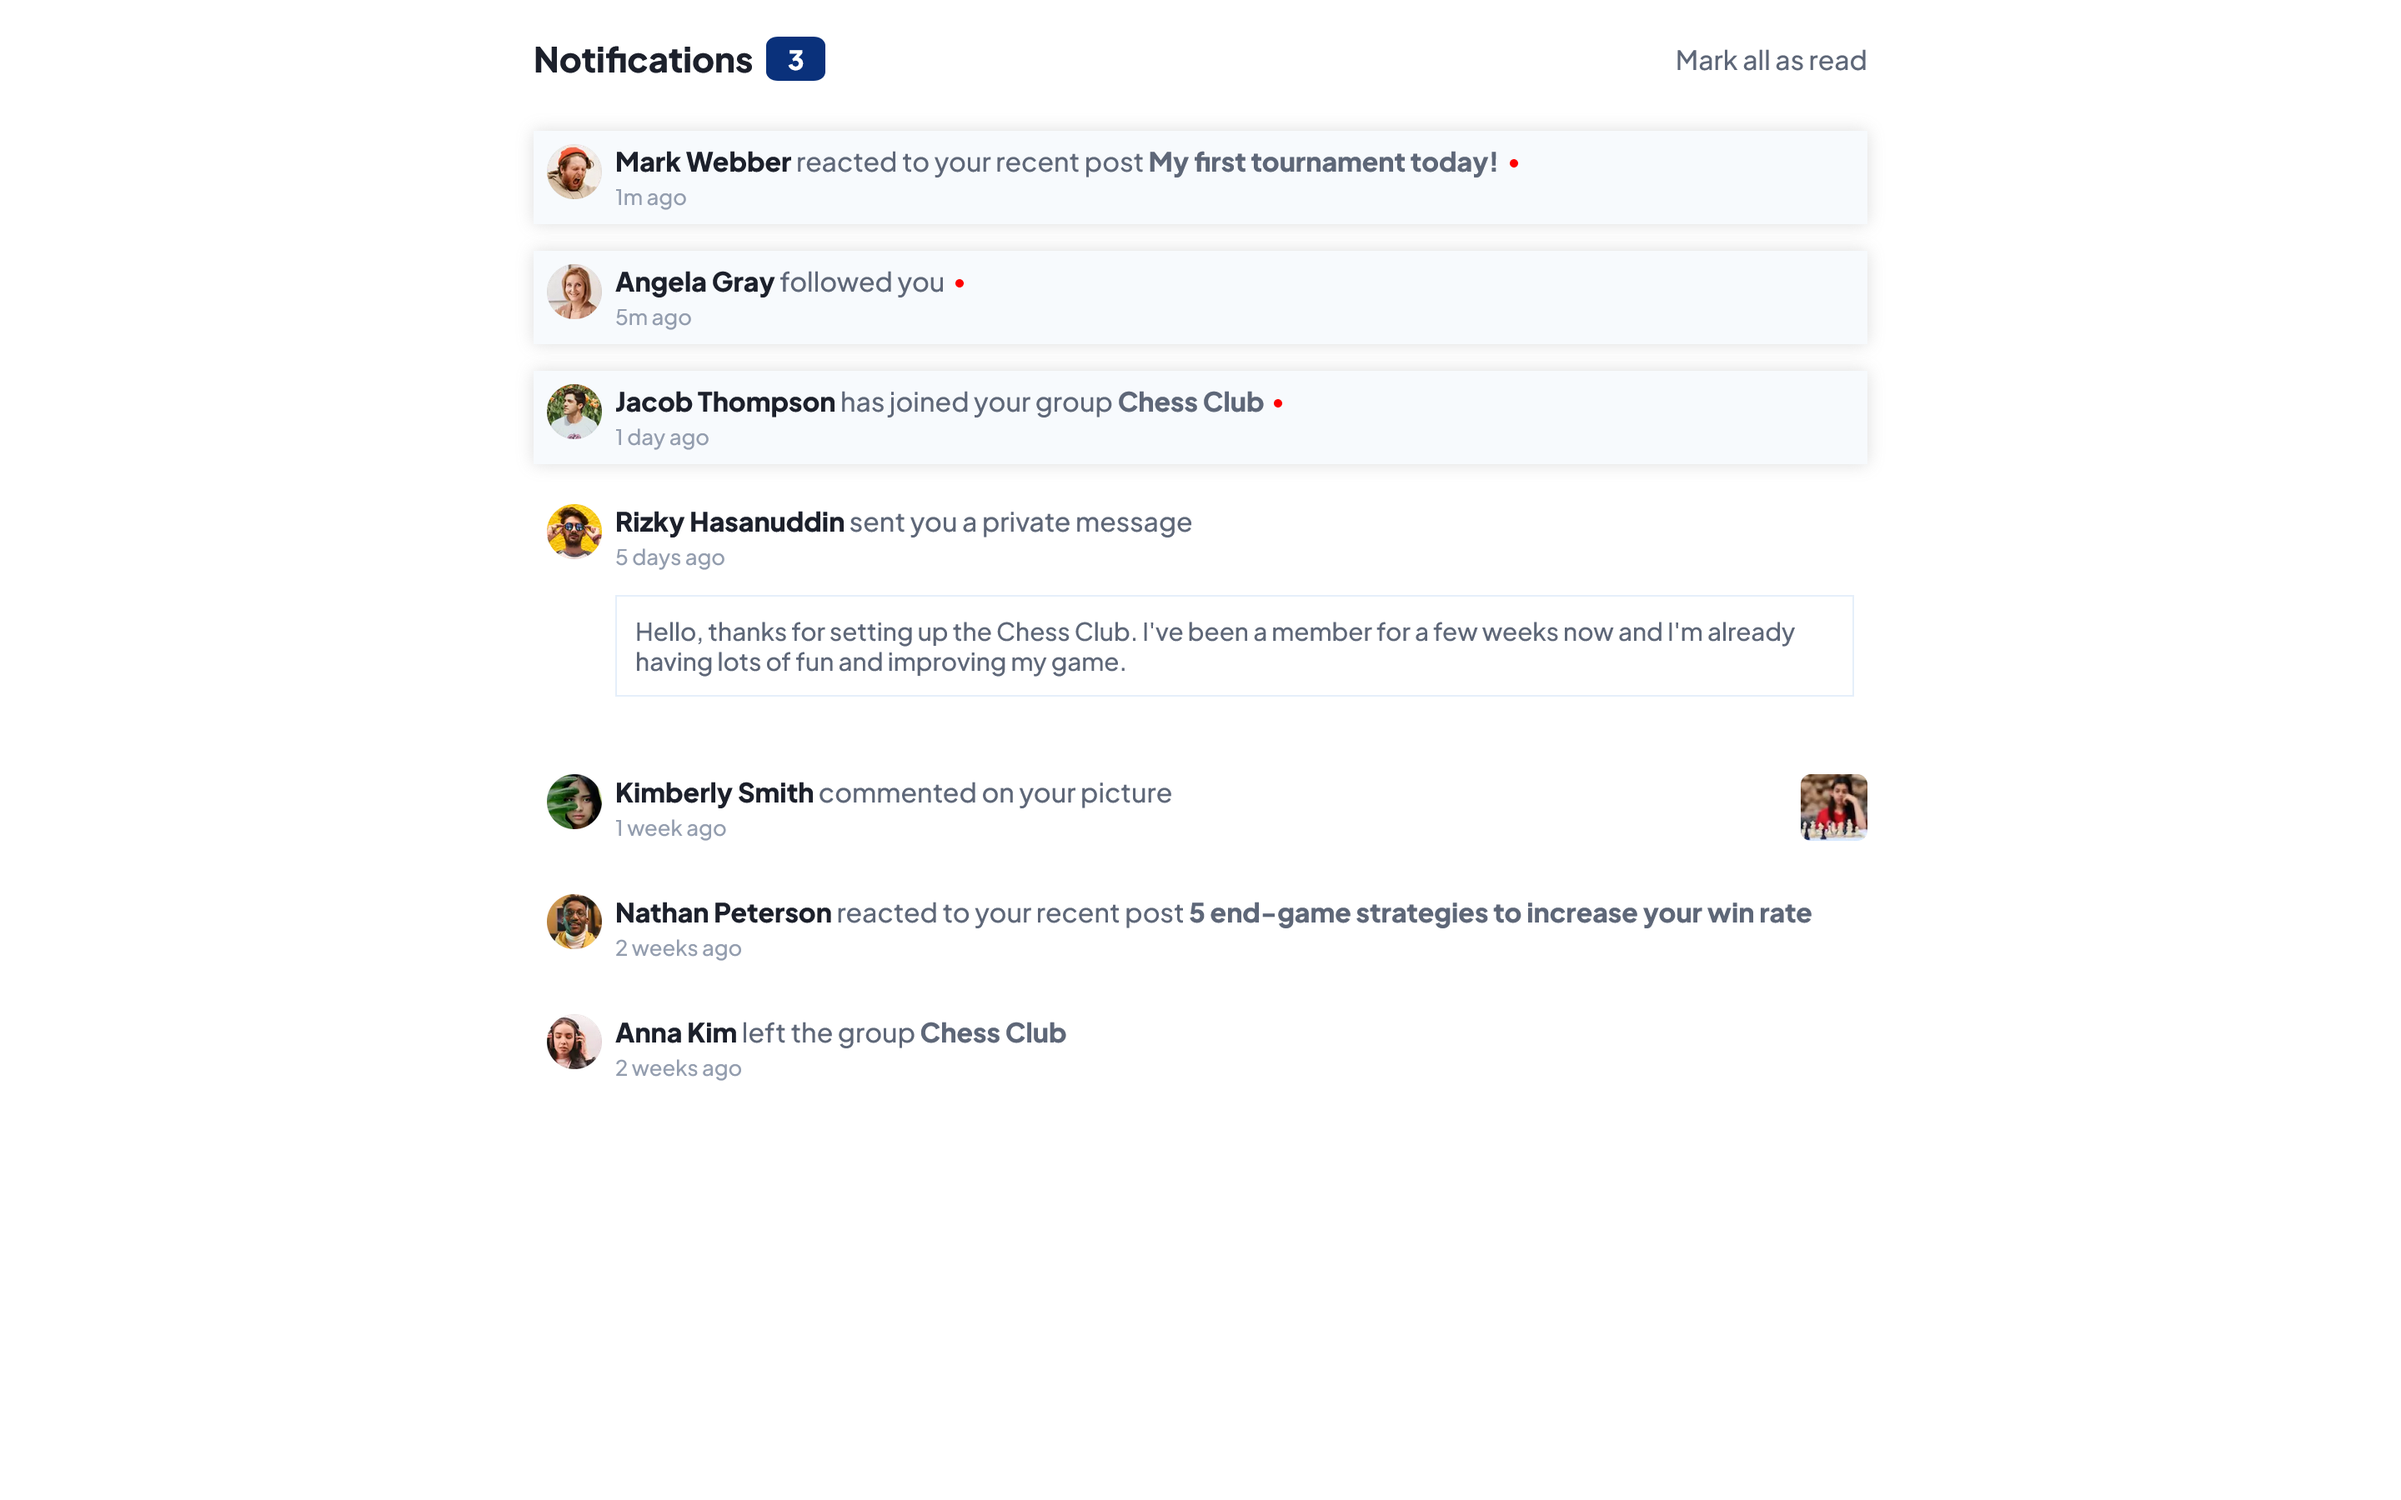
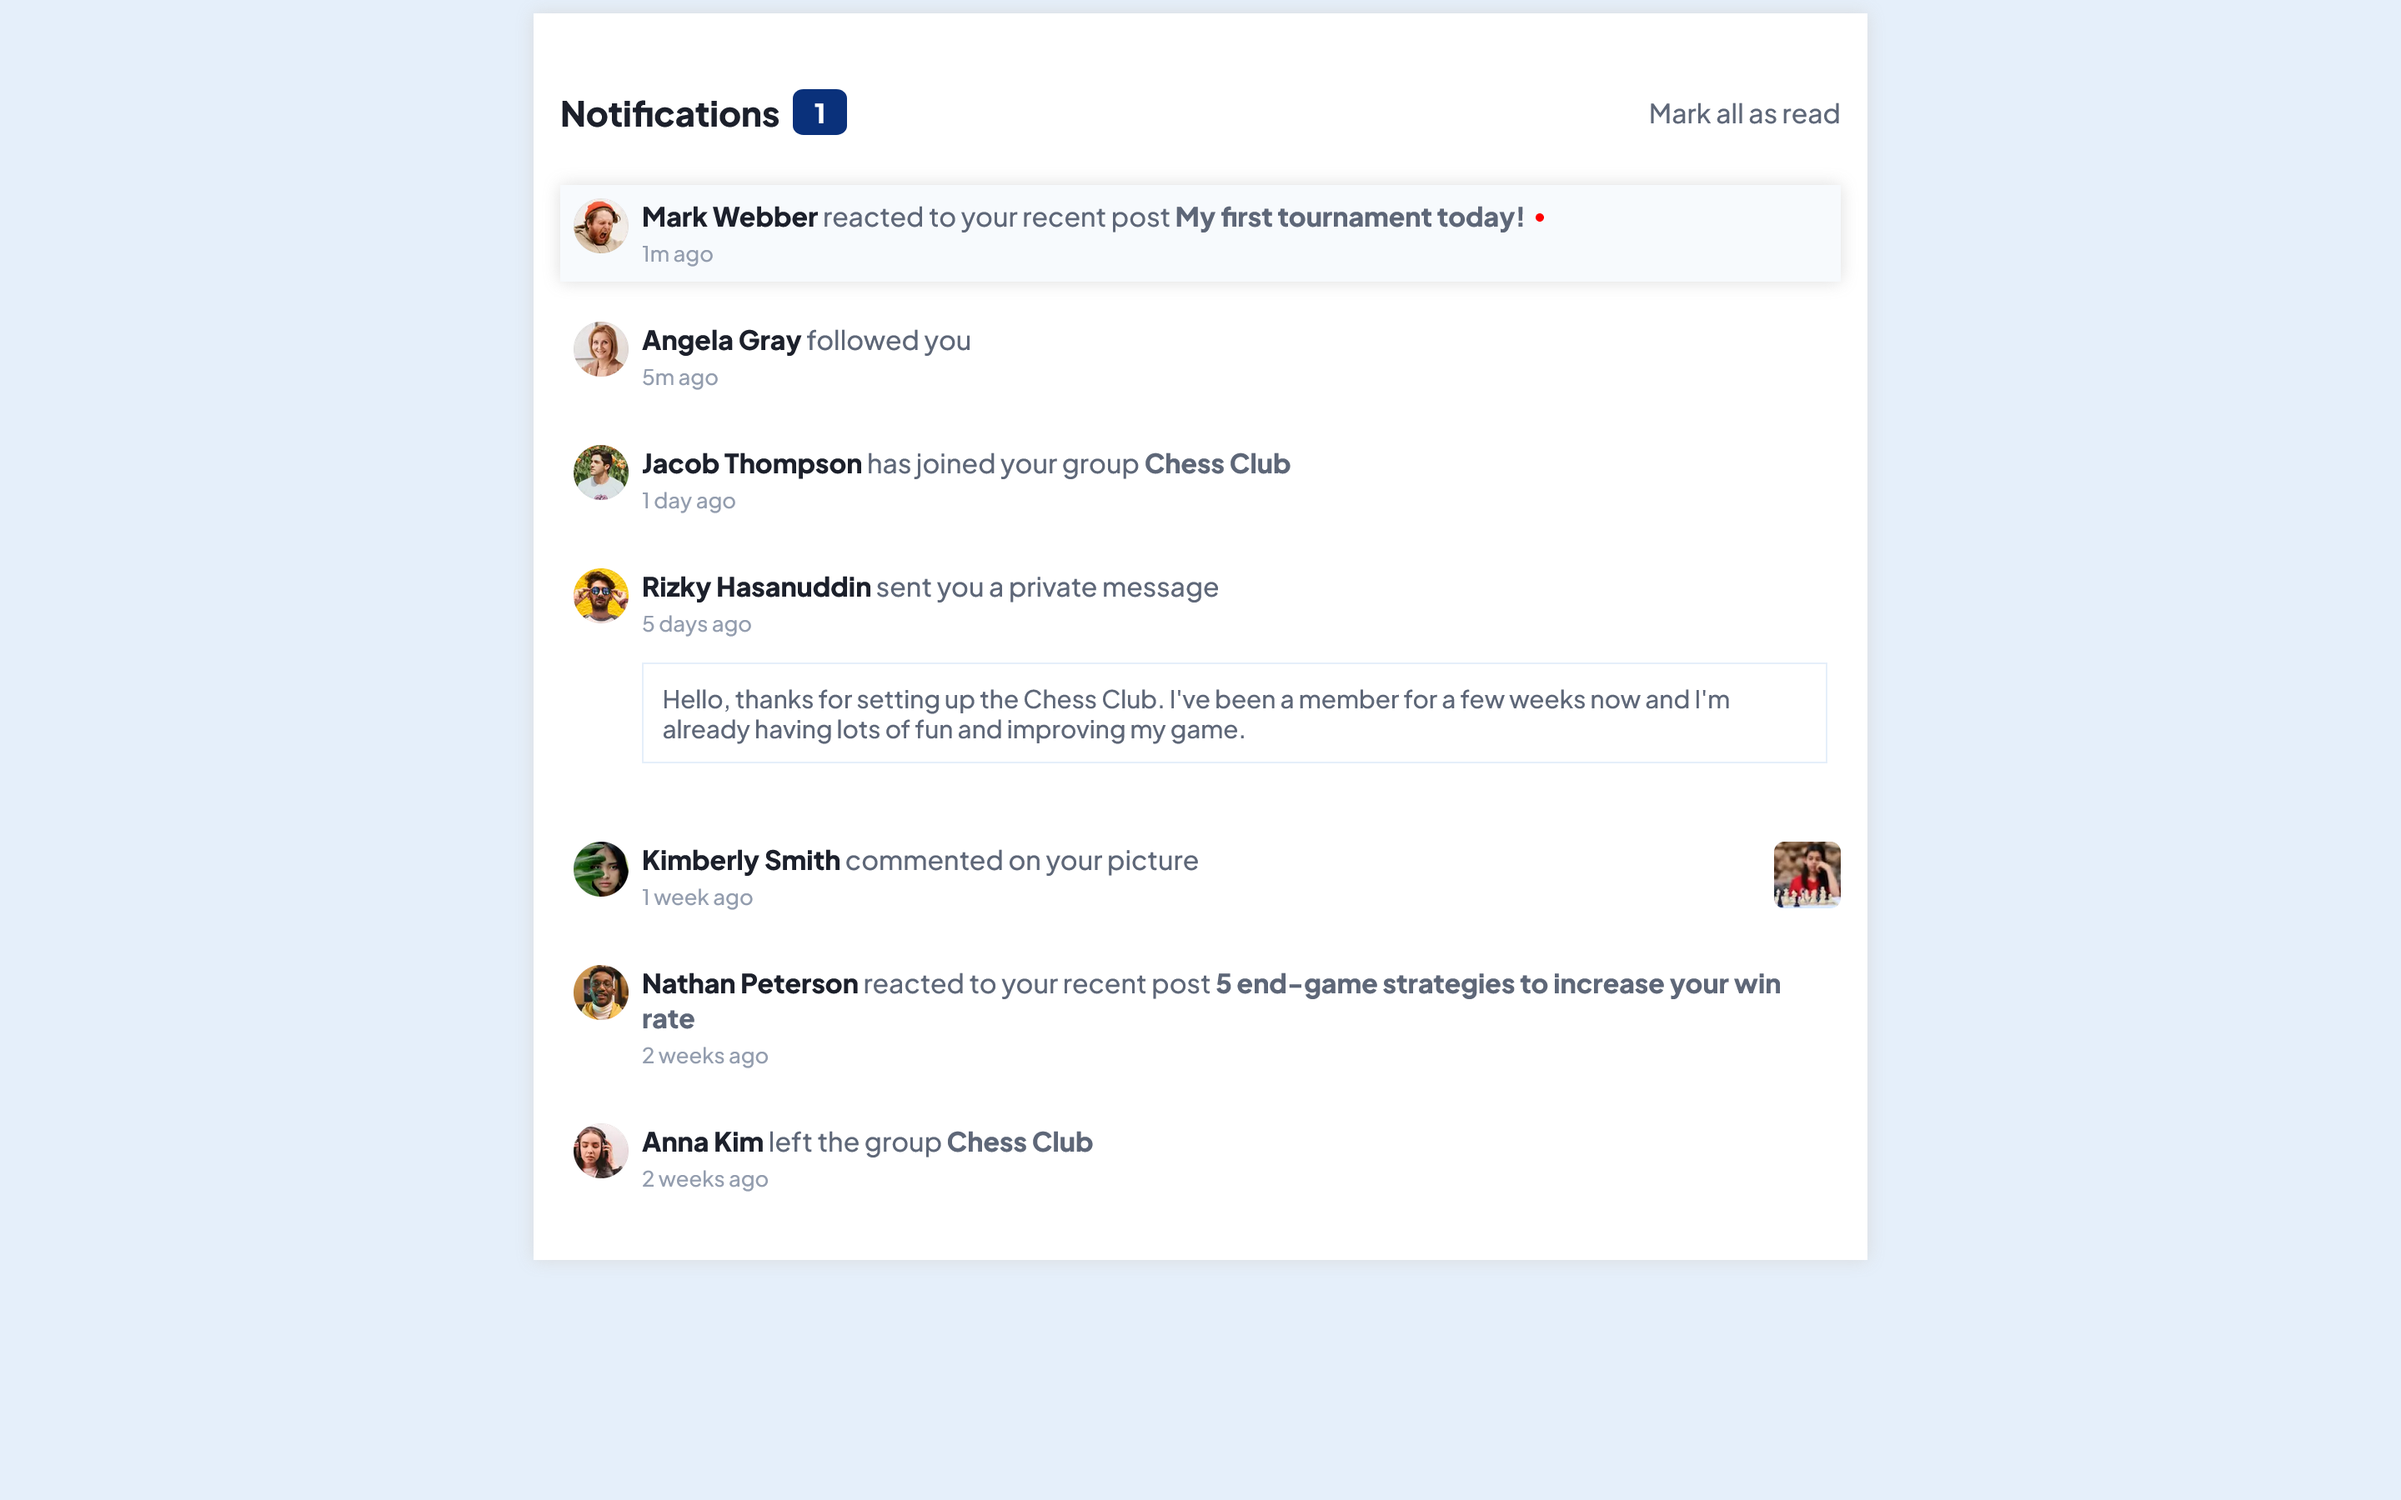
quickfixes

diff --git a/18 Notifications Page Main/style.css b/18 Notifications Page Main/style.css
@@ -49,14 +49,17 @@ body {
   color: var(--colors-neutral-500);
   display: flex;
   justify-content: center;
-  align-items: center;
+  background-color: var(--colors-neutral-200);
 }
 
 main {
   display: flex;
   flex-direction: column;
   gap: 1rem;
-  max-width: 800px;
+  max-width: 600px;
+  background-color: var(--colors-neutral-000);
+  padding: 2rem 1rem;
+  box-shadow: 0px 0px 10px rgba(215, 215, 215, 0.86);
 }
 
 .notifications__header {
